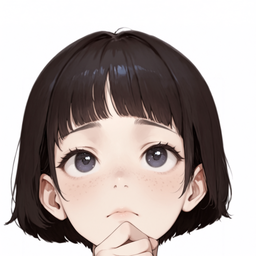
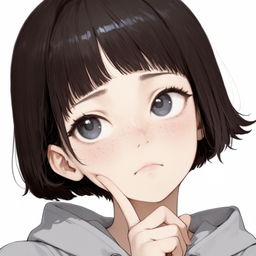
Redraw Aki's faces in a hoodie with gestures
Aki's faces showed the whole head and little else. Like Natsumi's,
they now crop the top of the head, keep the face large and show the
clothes below it. The tank top is replaced by a light gray hoodie, and
each expression has a gesture with the hands close to the face, such
as a peace sign for happy and a finger on the cheek for thinking.

The faces are drawn with LoRA kutara_anima.v12, cropped so the eye
height and face size match neutral, and redrawn with img2img at 0.25.
appearance.yaml follows the new LoRA and the hoodie as the default
outfit. The spritesheet is still the tank top and is left as it is.

diff --git a/test/avatar.test.ts b/test/avatar.test.ts
@@ -509,14 +509,14 @@ test('aki has her own name, complete assets and Anima drawing settings', async (
   assert.deepEqual(avatar.defaults, []);
   assert.equal(avatar.personality, await readFile(join(BUILT_IN_DIRECTORY, 'aki', 'personality.md'), 'utf8'));
   assert.match(avatar.personality!, /^# 性格・話し方\n[\s\S]*一人称は「ぼく」。二人称は「きみ」/);
-  assert.equal(avatar.appearance?.lora, 'kutara_anima.v6');
+  assert.equal(avatar.appearance?.lora, 'kutara_anima.v12');
   assert.match(avatar.appearance!.body, /kutara aki, 1girl, black hair, bob cut,/);
   assert.ok(!avatar.appearance!.body.includes('femboy'));
   assert.deepEqual(avatar.appearance?.keep, ['black hair', 'bob cut', 'gray eyes', 'freckles']);
   for (const word of avatar.appearance!.keep) {
     assert.ok(avatar.appearance!.body.includes(word), `body must contain keep word: ${word}`);
   }
-  assert.equal(avatar.appearance?.outfitName, '白いタンクトップと青い短パン');
+  assert.equal(avatar.appearance?.outfitName, 'グレーのパーカー');
   assert.match(avatar.sdctlParams, /anima_2_9_Anima-2.9B-preview-v1/);
   assert.match(avatar.sdctlParams, /twins, duplicate/);
 });
